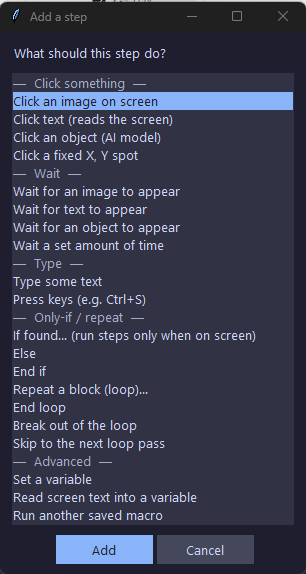
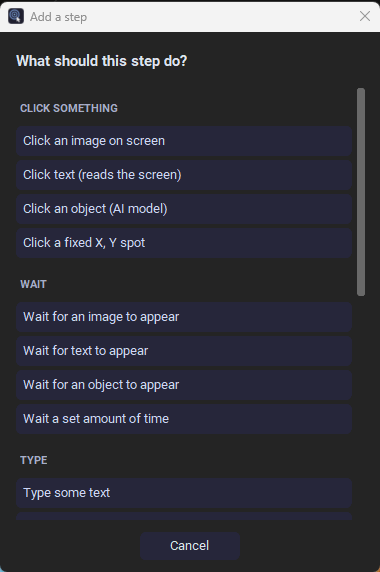
docs: refresh gallery with the new CustomTkinter dialogs
Regenerate editor.png + addmenu.png at the new CTk look and rebuild the
Screenshots gallery (app · playback · step editor · add-step menu) so every
image reflects the reskinned UI. Drop the stale record.gif (showed the old
pre-reskin window; no longer referenced).

diff --git a/README.md b/README.md
@@ -49,22 +49,22 @@ moves or the layout shifts.
 <table>
 <tr>
 <td width="50%" align="center">
-<img src="docs/demo.gif" alt="playback: driving a login form"><br>
-<sub><b>Playback</b> — finds each field by sight and drives it, no fixed coordinates.</sub>
+<img src="docs/ui.png" alt="the app window"><br>
+<sub><b>The app</b> — modern dark UI: sidebar, editable step list, live log.</sub>
 </td>
 <td width="50%" align="center">
-<img src="docs/record.gif" alt="recording a login flow"><br>
-<sub><b>Recording</b> — steps and the capture log appear live as you act.</sub>
+<img src="docs/demo.gif" alt="playback: driving a login form"><br>
+<sub><b>Playback</b> — finds each field by sight and drives it, no fixed coordinates.</sub>
 </td>
 </tr>
 <tr>
 <td width="50%" align="center">
-<img src="docs/ui.png" alt="the app window"><br>
-<sub><b>The app</b> — toolbar plus an editable, reorderable step list.</sub>
-</td>
-<td width="50%" align="center">
 <img src="docs/editor.png" alt="step editor dialog"><br>
 <sub><b>Step editor</b> — fields match the step type; no syntax to learn.</sub>
+</td>
+<td width="50%" align="center">
+<img src="docs/addmenu.png" alt="add-step menu"><br>
+<sub><b>Add step</b> — a plain-English menu; no need to know the step names.</sub>
 </td>
 </tr>
 </table>